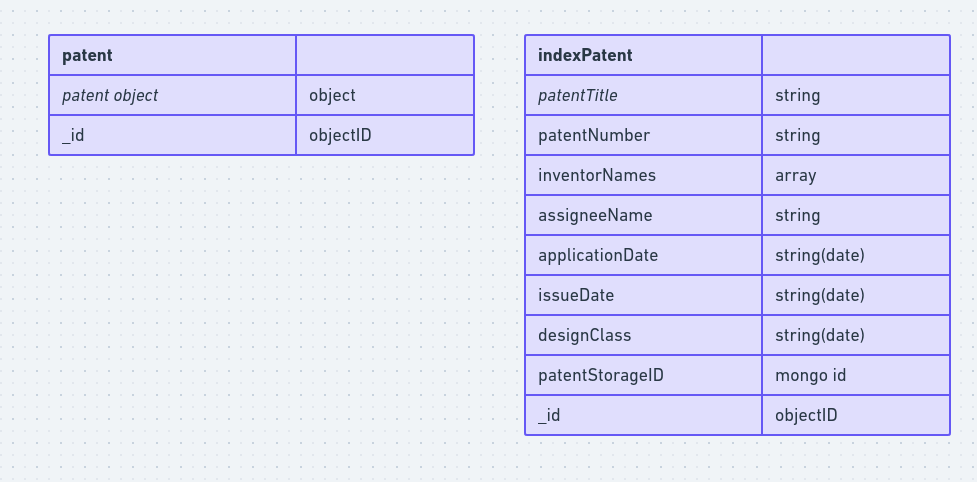
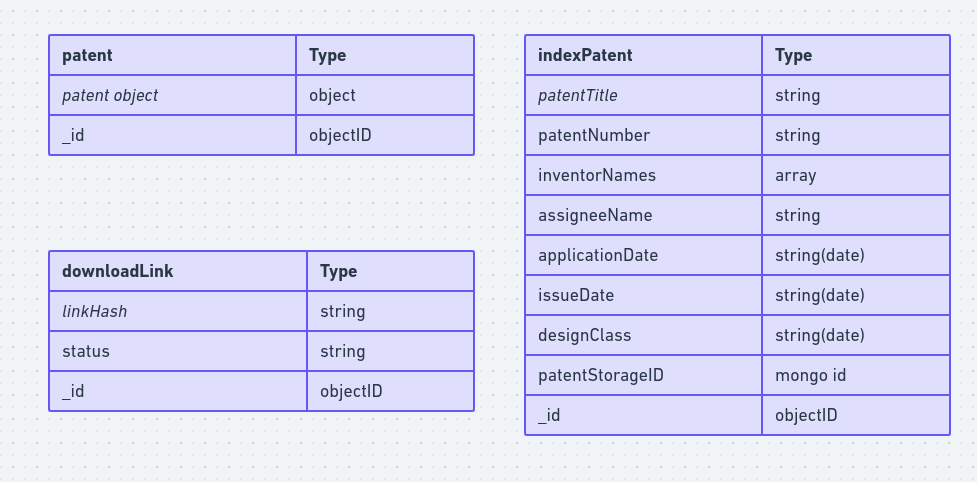
cleaning

Changed region(s): [[0.0307, 0.4979, 0.4913, 0.8714], [0.3071, 0.0934, 0.3685, 0.1245], [0.7984, 0.0934, 0.8291, 0.1245]]

diff --git a/pkg/config/config.go b/pkg/config/config.go
@@ -7,56 +7,6 @@ import (
 	"time"
 )
 
-// Config holds all configuration for our program
-// type Config struct {
-// 	MongoUsername                string
-// 	MongoPassword                string
-// 	RedisPassword                string
-// 	RedisAddress                 string
-// 	RedisDB                      int
-// 	MongoURI                     string
-// 	MongoDatabase                string
-// 	MongoMaxPoolSize             uint64
-// 	ServerPort                   int
-// 	RedisTimeout                 time.Duration
-// 	Server                       string
-// 	MongoContainerName           string
-// 	RedisContainerName           string
-// 	MongoDBStorageCollectionName string
-// 	MongoDBIndexCollectionName   string
-// 	MongoDBLinkCollectionName    string
-// 	IndexDirectory               string
-// 	DataStoreDirectory           string
-// }
-
-// // LoadConfig loads configuration from environment variables
-// func LoadConfig() (*Config, error) {
-// 	var cfg Config
-
-// 	cfg.MongoUsername = getEnv("MONGO_USERNAME", "root")
-// 	cfg.MongoPassword = getEnv("MONGO_PASSWORD", "example")
-// 	cfg.RedisPassword = getEnv("REDIS_PASSWORD", "yourpassword")
-// 	cfg.RedisAddress = getEnv("REDIS_ADDRESS", "localhost:6379")
-// 	cfg.MongoURI = getEnv("MONGODB_URI", "mongodb://%s:%s@localhost:27017")
-// 	cfg.MongoDatabase = getEnv("MONGODB_DATABASE", "searchDB")
-// 	cfg.Server = getEnv("SERVER", "localhost")
-// 	cfg.MongoContainerName = getEnv("MONGO_CONTAINER_NAME", "mongodb-search")
-// 	cfg.RedisContainerName = getEnv("REDIS_CONTAINER_NAME", "redis-search")
-// 	cfg.MongoDBStorageCollectionName = getEnv("MONGODB_STORAGE_COLLECTION_NAME", "patent")
-// 	cfg.MongoDBIndexCollectionName = getEnv("MONGODB_INDEX_COLLECTION_NAME", "indexPatent")
-// 	cfg.MongoDBLinkCollectionName = getEnv("MONGODB_LINK_COLLECTION_NAME", "downloadLink")
-
-// 	cfg.ServerPort = getEnvAsInt("PORT", 40051)
-// 	cfg.RedisDB = getEnvAsInt("REDIS_DB", 0)
-// 	cfg.MongoMaxPoolSize = getEnvAsUInt("MONGODB_MAX_POOL_SIZE", 10)
-// 	cfg.RedisTimeout = time.Duration(getEnvAsInt("REDIS_TIMEOUT", 10)) * time.Second
-// 	cfg.IndexDirectory = getEnv("INDEX_DIRECTORY", "index")
-// 	cfg.DataStoreDirectory = getEnv("DATA_STORE_DIRECTORY", "search-data")
-
-// 	return &cfg, nil
-// }
-
-// MongoDBConfig holds the configuration related to MongoDB.
 type MongoDBConfig struct {
 	Username              string
 	Password              string

diff --git a/pkg/queue/queue.go b/pkg/queue/queue.go
@@ -30,7 +30,7 @@ type TaskQueue struct {
 	tasks     chan Task
 	wg        *sync.WaitGroup
 	processor TaskProcessor
-	resume    chan struct{} // Channel to resume workers
+	resume    chan struct{}
 }
 
 // NewTaskQueue creates a new TaskQueue with the given TaskProcessor and size.
@@ -40,7 +40,7 @@ func NewTaskQueue(size int, processor TaskProcessor) *TaskQueue {
 		tasks:     make(chan Task, size),
 		wg:        &sync.WaitGroup{},
 		processor: processor,
-		resume:    make(chan struct{}), // Initialize the resume channel
+		resume:    make(chan struct{}),
 	}
 	log.Println("TaskQueue Initialized.")
 	return q
@@ -52,7 +52,7 @@ func (q *TaskQueue) Enqueue(task Task) {
 	q.tasks <- task
 	log.Printf("Task: %+v enqueued.\n", task)
 	log.Println("Sending signal to resume a worker.")
-	q.resume <- struct{}{} // Send signal to resume a worker
+	q.resume <- struct{}{}
 	log.Println("Signal sent to resume a worker.")
 }
 
@@ -83,7 +83,7 @@ func (q *TaskQueue) worker(ctx context.Context) {
 		case task, ok := <-q.tasks:
 			if !ok {
 				log.Println("Tasks channel closed, exiting worker.")
-				return // exit if the tasks channel is closed
+				return
 			}
 			log.Printf("Processing task: %+v\n", task)
 			taskCtx, cancel := context.WithTimeout(ctx, 100*time.Second)
@@ -93,12 +93,12 @@ func (q *TaskQueue) worker(ctx context.Context) {
 				log.Printf("Task %+v processed successfully.\n", task)
 			}
 			cancel()
-		case <-q.resume: // resume when a signal is received
+		case <-q.resume:
 			log.Println("Worker resumed.")
 			continue
 		case <-ctx.Done():
 			log.Println("Context done, exiting worker.")
-			return // exit if context is done
+			return
 		}
 	}
 }

diff --git a/pkg/database/mongo/fileProcess.go b/pkg/database/mongo/fileProcess.go
@@ -6,12 +6,9 @@ import (
 	"encoding/hex"
 	"time"
 
-	// "github.com/avyukth/search-app/pkg/downloader"
 	"go.mongodb.org/mongo-driver/mongo"
 	"gopkg.in/mgo.v2/bson"
 )
-
-// var _ downloader.LinkProcessor = &Database{}
 
 // CheckAndSetLinkStatus checks the link status and sets it to processed if not already processed or completed
 func (db *Database) CheckAndSetLinkStatus(link string) (bool, error) {
@@ -30,7 +27,7 @@ func (db *Database) CheckAndSetLinkStatus(link string) (bool, error) {
 		return false, err
 	}
 	if err == nil {
-		return false, nil // Link is already processed or completed
+		return false, nil
 	}
 
 	// Set link to processed state

diff --git a/pkg/api/router/router.go b/pkg/api/router/router.go
@@ -12,14 +12,13 @@ import (
 // SetupRoutes sets up all the routes for your application
 func SetupRoutes(app *fiber.App, db *mongo.Database, searchEngine *indexer.SearchEngine, q *queue.TaskQueue) {
 
-	// Middleware
-	app.Use(logger.New()) // add logging to each request
+	// logger Middleware
+	app.Use(logger.New())
 
 	// Routes
 	api := app.Group("/api")
 	v1 := api.Group("/v1")
 
-	// Define your routes here
 	v1.Get("/search", handler.SearchHandler(db, searchEngine))
 	v1.Get("/download", handler.DownloadHandler(db, q))
 	v1.Get("/crawl", handler.CrawlerHandler(db, q))

diff --git a/pkg/indexer/indexer.go b/pkg/indexer/indexer.go
@@ -26,7 +26,6 @@ func NewSearchEngine(indexDir string) (*SearchEngine, error) {
 			return nil, err
 		}
 	} else if err != nil {
-		// Handle other os.Stat errors
 		return nil, err
 	} else {
 		// Open the existing index

diff --git a/README.md b/README.md
@@ -1,10 +1,5 @@
 
-# USPTO Design Patent Search Engine
-
-## Background
-
-The United States Patent and Trademark Office (USPTO) provides a dataset of design patents, which includes information about various design patents granted by the USPTO. This project aims to create a search engine that allows users to search for design patents based on various criteria.
-
+# Patent Search Engine
 ## Requirements
 
 - **Data Parsing**: The application downloads and parses the USPTO Design Patent dataset, available in XML format. The dataset can be obtained from [USPTO's official site](https://bulkdata.uspto.gov/data/patent/grant/redbook/2023/).
@@ -45,7 +40,6 @@ The system is designed to be scalable and efficient in handling large datasets. 
 
 1. **Clone the Repository**:
    ```sh
-   git clone <repository-url> search-app
    cd search-app
    ```
 
@@ -66,7 +60,7 @@ The system is designed to be scalable and efficient in handling large datasets. 
 
 5. **Run the Project using Docker Compose**:
    ```sh
-   make docker-compose-up
+   make all
    ```
 
 6. **View Logs**:
@@ -84,11 +78,32 @@ The system is designed to be scalable and efficient in handling large datasets. 
    make docker-compose-down
    ```
 
+## sample Data
+
+Sample data is available in the [sample-data](https://bitly.ws/W7f4) link. The data is in XML format, and can be imported into the database using the following command: 
+
+```sh
+curl --location --request GET 'http://localhost:40051/api/v1/download?link=https%3A%2F%2Fbitly.ws%2FW7f4' \
+--header 'Content-Type: application/json' \
+--data '{
+
+    
+}'
+
+```
+
+## sample Search
+Sample search api is for patent number 11696523
+
+```sh
+curl --location 'http://127.0.0.1:40051/api/v1/search?query=11696523'
+```
+
 ## Documentation
 
 For a detailed guide on how to use the search engine, including endpoints and example requests, refer to the provided Postman documentation available at [api.html](api.html).
 
-## Evaluation Criteria
+## Evaluation Criteria satisfied =
 
 **Candidate POV**
 
@@ -99,13 +114,5 @@ For a detailed guide on how to use the search engine, including endpoints and ex
 - [X] **Database Design**: MongoDB is used to store the data, ensuring scalability and performance.
 - [X] **Error Handling**: Comprehensive error handling is implemented to manage potential issues.
 - [X] **Overall Impression**: The project is well-executed, with efficient data parsing and retrieval mechanisms in place.
-
-## Deadline
-
-The project is expected to be completed and submitted within 5 days from the start date.
-
-## License
-
-This project is licensed under the MIT License. See the LICENSE.md file for details.
 
 
